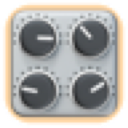
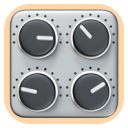
Align store branding with WecomBetter 企微搭子 on 1.0.4.
Unify extension name and short descriptions, refresh toolbar icons, and simplify the popup header to a single title line.

Changed region(s): [[0.0312, 0.0312, 0.9688, 0.9688]]

diff --git a/src/popup/index.html b/src/popup/index.html
@@ -3,7 +3,7 @@
   <head>
     <meta charset="utf-8" />
     <meta name="viewport" content="width=device-width, initial-scale=1" />
-    <title>WecomBetter</title>
+    <title>WecomBetter 企微搭子</title>
     <link rel="stylesheet" href="./popup.css" />
   </head>
   <body>
@@ -11,10 +11,9 @@
       <img class="mast-mark" src="../../icons/icon48.png" width="28" height="28" alt="" />
       <div class="mast-copy">
         <div class="mast-row">
-          <h1>WecomBetter</h1>
+          <h1>WecomBetter 企微搭子</h1>
           <span class="ver">1.0.4</span>
         </div>
-        <p>企微搭子</p>
       </div>
     </header>
 
